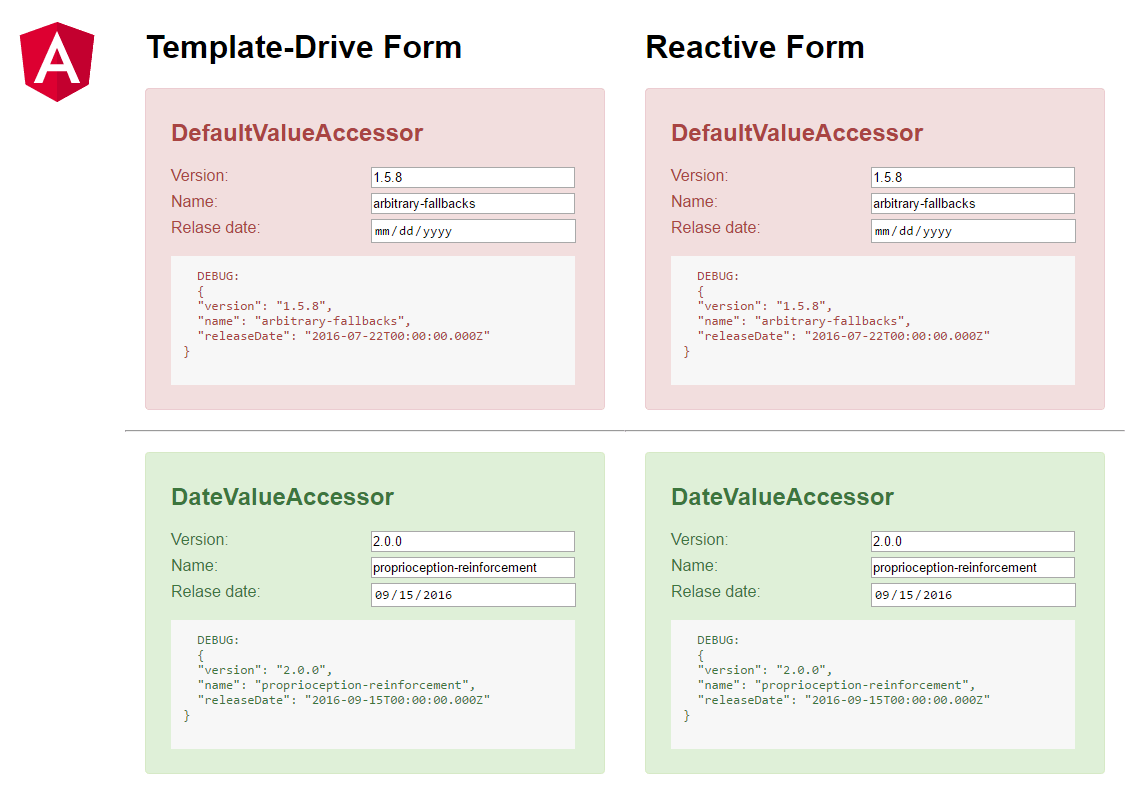
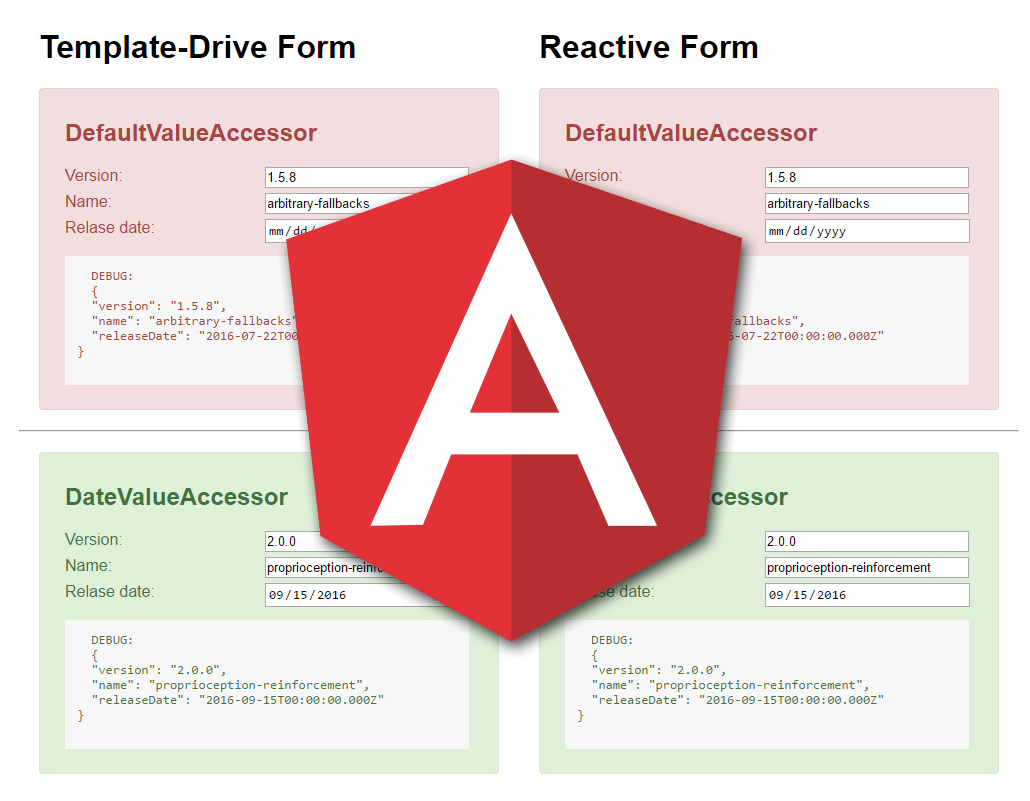
upates to the readme, more dominant screenshot

diff --git a/article.md b/article.md
@@ -1,46 +1,54 @@
-# Angular 2: How to use JavaScript Date Object with two-way data bindings (ngModel)
+# Angular 2: How to use a date input controls with real Date Objects
+[![NPM version][npm-image]][npm-url]
+
+[![Screenshot](https://johanneshoppe.github.io/angular-date-value-accessor/assets/screenshot.png)](http://johanneshoppe.github.io/angular-date-value-accessor/)
+
+
+## The problem
 
 Working with forms is pretty easy with Angular 2.
-You just need to decide between Template-Driven or Reactive Forms and you are ready to start with some bindings and validation. The following code shows a two-way data binding with `ngModel` against a property of type `string`:
+You just need to decide between Template-Driven and Reactive Forms and you are ready to start with some bindings and validation. The following code shows a two-way data binding with `ngModel` against a property of type `string`:
 
 ```
-<input type="text" name="name" [(ngModel)]="release1.name">
+<input type="text" name="name" [(ngModel)]="myName">
 ```
 
 But there is one problem to tackle: models of type `Date`!  
 You might wonder, because HTML5 date input controls are not working as expected:
 
 ```
-<input type="date" name="releaseDate" [(ngModel)]="release1.releaseDate">
+<input type="date" name="releaseDate" [(ngModel)]="myBirtday">
 ```
 
-Even if `release1.releaseDate` contains a valid date, the date input control is not rendering the value at all.
-In fact, we are supposed to set a string that is representing a full-date as defined in [RFC 3339](https://www.w3.org/TR/html-markup/references.html#refsRFC3339). The same string is written back to the model, when changes have been made, e.g. "2016-09-30". This behavior is specified in the [W3C HTML language reference for `inputEl.value`](https://www.w3.org/TR/html-markup/input.date.html#input.date.attrs.value). So date input controls are based on strings. What can we do to keep the Date type?
+Even if `myBirtday` contains a valid date, the date input control is not rendering the value at all.
+In fact, we are supposed to set a string that is representing a full-date as defined in [RFC 3339](https://www.w3.org/TR/html-markup/references.html#refsRFC3339). The same string is written back to the model, when changes have been made, e.g. "2016-10-13". This behavior is specified in the [W3C HTML language reference for `inputEl.value`](https://www.w3.org/TR/html-markup/input.date.html#input.date.attrs.value). According to the specification, date input controls are based on strings. So what can we do to keep the Date type?
+
+## A solution
 
 Let's review the possible solutions:
 
 1. We could create a [custom form control](http://blog.thoughtram.io/angular/2016/07/27/custom-form-controls-in-angular-2.html). This would be a clean and extendable solution, but it might lead to more code than required for the given use-case.
 
-2. We could convert the strings directly in our @Component as described [here](http://stackoverflow.com/a/37055451). But do we really want to bloat our "business code layer" with boilerplate code?
+2. We could convert the strings directly in our `@Component` as described [here](http://stackoverflow.com/a/37055451). But do we really want to bloat our "business code layer" with boilerplate code?
 
-3. We could create a __custom value accessor__. The following code discusses this option.
+3. We could create a __custom value accessor__. The following article discusses this option.
 
 It turns out, that date input control has another, not that well-known property: [`inputEl.valueAsDate`](https://www.w3.org/TR/2012/WD-html5-20121025/common-input-element-apis.html#dom-input-valueasdate)! The `inputEl.valueAsDate` attribute represents the value (still a string) of the element, interpreted as a date. This is exactly what we need. Now we only need to convince Angular to use this property, instead of `inputEl.value`. 
 
-Fortunately Angular 2 is very expansible here. FormControls (both template-driven and reactive) subscribe for values and write values via Directives that implement `ControlValueAccessor`. Take a look at the relevant method [selectValueAccessor](https://github.com/angular/angular/blob/2.1.0-beta.0/modules/%40angular/forms/src/directives/shared.ts#L140), which is used in all necessary directives. Normal input controls (e.g. `<input type="text">`) or textareas are usually handled by the [DefaultValueAccessor](https://github.com/angular/angular/blob/2.1.0-beta.0/modules/%40angular/forms/src/directives/default_value_accessor.ts). Another example is the [CheckboxValueAccessor](https://github.com/angular/angular/blob/2.1.0-beta.0/modules/%40angular/forms/src/directives/checkbox_value_accessor.ts) which is applied to checkbox input controls.
+Fortunately Angular 2 is very expansible here. FormControls (both template-driven and reactive) subscribe for values and write values via Directives that implement `ControlValueAccessor`. Take a look at the relevant method [selectValueAccessor](https://github.com/angular/angular/blob/2.1.0-beta.0/modules/%40angular/forms/src/directives/shared.ts#L140), which is used in all necessary directives. Normal input controls (e.g. `<input type="text">`) or textareas are handled by the [DefaultValueAccessor](https://github.com/angular/angular/blob/2.1.0-beta.0/modules/%40angular/forms/src/directives/default_value_accessor.ts). Another example is the [CheckboxValueAccessor](https://github.com/angular/angular/blob/2.1.0-beta.0/modules/%40angular/forms/src/directives/checkbox_value_accessor.ts) which is applied to checkbox input controls.
 
-The job isn't complicated at all. We just need to implement a new value accessor.  
-`DateValueAccessorDirective` is a nice name:
+The job isn't complicated at all. We just need to implement a new value accessor for date input controls.  
+`DateValueAccessor` is a nice name:
 
 ```js
-// date-value-accessor.directive.ts
+// date-value-accessor.ts
 
 import { Directive, ElementRef, HostListener, Renderer, forwardRef } from '@angular/core';
-import { ControlValueAccessor, NG_VALUE_ACCESSOR } from '@angular/forms/src/directives/control_value_accessor';
+import { ControlValueAccessor, NG_VALUE_ACCESSOR } from '@angular/forms';
 
 export const DATE_VALUE_ACCESSOR: any = {
   provide: NG_VALUE_ACCESSOR,
-  useExisting: forwardRef(() => DateValueAccessorDirective),
+  useExisting: forwardRef(() => DateValueAccessor),
   multi: true
 };
 
@@ -51,14 +59,10 @@ export const DATE_VALUE_ACCESSOR: any = {
  *  `<input type="date" name="myBirthday" ngModel useValueAsDate>`
  */
 @Directive({
-  // this selector changes the previous behavior silently and might break existing code
-  // selector: 'input[type=date][formControlName],input[type=date][formControl],input[type=date][ngModel]',
-
-  // this selector is an opt-in version
   selector: '[useValueAsDate]',
   providers: [DATE_VALUE_ACCESSOR]
 })
-export class DateValueAccessorDirective implements ControlValueAccessor {
+export class DateValueAccessor implements ControlValueAccessor {
 
   @HostListener('input', ['$event.target.valueAsDate']) onChange = (_: any) => { };
   @HostListener('blur', []) onTouched = () => { };
@@ -76,14 +80,63 @@ export class DateValueAccessorDirective implements ControlValueAccessor {
     this._renderer.setElementProperty(this._elementRef.nativeElement, 'disabled', isDisabled);
   }
 }
+
 ```
 
 We attach the `DateValueAccessor` to the multi-provider `DATE_VALUE_ACCESSOR`, so that [selectValueAccessor](https://github.com/angular/angular/blob/2.1.0-beta.0/modules/%40angular/forms/src/directives/shared.ts#L140) can find it.
 
-The only question is, which selector should be used. On option could be an opt-in solution. Here the DateValueAccessor selects on the attribute "useValueAsDate".
+The only question is, which selector should be used. I decided for an opt-in solution. Here the DateValueAccessor selects on the attribute "useValueAsDate".
 
-```
-<input type="text" name="name" [(ngModel)]="release1.name" useValueAsDate>
+```html
+<input type="date" name="myBirthday" ngModel useValueAsDate>
+
+OR
+
+<input type="date" name="myBirthday" [(ngModel)]="myBirthday" useValueAsDate>
+
+OR
+
+<input type="date" formControlName="myBirthday" useValueAsDate>
 ```
 
-It is also possible to fix the default implementation. A selector of `input[type=date]` plus the one of the three FormControl directives would activate the feature magically. But please be aware, that this might break existing implementations that rely of the old behaviour.
+It is also possible to fix the default implementation. The following selector would activate the feature magically. 
+
+```js
+// this selector changes the previous behavior silently and might break existing code
+selector: 'input[type=date][formControlName],input[type=date][formControl],input[type=date][ngModel]'
+```
+
+But please be aware, that this might break existing implementations that rely of the old behaviour. So I would go for the opt-in version!
+
+## It's all on NPM
+
+For your convenience, I created the project [`angular-data-value-accessor`](https://github.com/JohannesHoppe/angular-date-value-accessor) on Github.  
+There is also a NPM package available:
+
+
+```bash
+npm install --save angular-date-value-accessor
+```
+
+Then import the module via NgModule:
+
+```js
+// app.module.ts
+
+import { DateValueAccessorModule } from 'angular-date-value-accessor';
+
+@NgModule({
+  imports: [
+    DateValueAccessorModule
+  ]
+})
+export class AppModule { }
+```
+
+## Demo
+
+Of course, there is a demo at:
+http://johanneshoppe.github.io/angular-date-value-accessor/
+
+[npm-url]: https://npmjs.org/package/angular-date-value-accessor
+[npm-image]: https://badge.fury.io/js/angular-date-value-accessor.svg

diff --git a/README.md b/README.md
@@ -45,6 +45,9 @@ import { DateValueAccessorModule } from 'angular-date-value-accessor';
 export class AppModule { }
 ```
 
+Now you can apply the "usaValueAsDate" to your date input controls.
+
+
 ## Demo
 
 There is a demo at:
